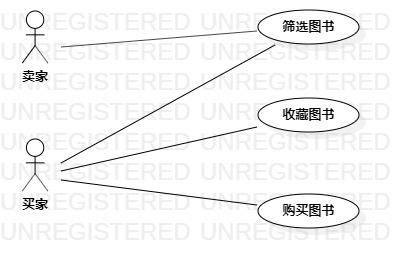
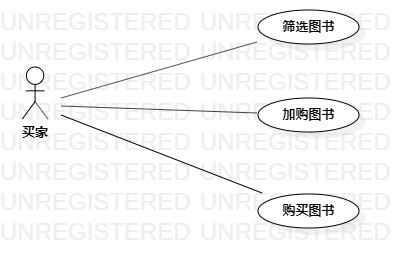
#2 #437 提交第二次实验

diff --git a/students/1714080902431/lab2.md b/students/1714080902431/lab2.md
@@ -2,28 +2,39 @@
 
 ## 一、实验目标
 
-1. 理解UML用例建模的概念
-2. 创建并完善选题
+1. 确定选题
+2. 学会用StarUML编写用例图
+3. 学习编写用例规约
 
 ## 二、实验内容
 
-1. 提交并完善选题
+1. 确定选题
 2. 描述选题功能
 3. 画出对应的用例图
+4. 编写用例规约
 
 ## 三、实验步骤
 
-1. 确定选题：图书商城系统
+1. 确定选题：#437 图书商城系统
 
 2. 描述选题的功能：
 
   （1）筛选图书：买家进入图书商城的主页面时，可通过关键字筛选出自己想要的图书
   
-  （2）收藏图书：买家通过筛选功能筛选出自己满意的图书后，可将其收藏，加入购物车
+  （2）加购图书：买家通过筛选功能筛选出自己满意的图书后，可将其加入购物车
   
-  （3）购买图书：买家可在筛选出图书后直接购买，也可通过购物车收藏后购买
+  （3）购买图书：买家可在购物车点击购买
+  
+3. 确定参与者（Actor）：买家
+
+4. 确定用例（User Case）
+  （1）筛选图书
+  （2）加购图书
+  （3）购买图书
     
-3. 画出对应的用例图
+5. 画出对应的用例图
+
+6. 编写用例规约
 
 ## 四、实验结果
 
@@ -31,3 +42,50 @@
 
 ![用例图](./lab2_UseCaseDiagram.jpg)  
 图1. 图书商城系统的用例图
+
+
+### 表1：筛选图书  
+
+用例编号  | UC01 | 备注  
+-|:-|-  
+用例名称  | 筛选图书  |   
+前置条件  |      | *可选*   
+后置条件  |      | *可选*   
+基本流程  | 1.买家进入系统首页；  |*用例执行成功的步骤*    
+~| 2.买家点击搜索框并输入书籍名称；  |     
+~| 3.买家点击搜索按钮；   |   
+~| 4.系统根据书籍名称查询书籍信息；   |  
+~| 5.系统返回书籍基本信息；   |  
+~| 6.系统在买家界面显示书籍基本信息；   |
+扩展流程  | 4.1系统检查书籍名称，若书籍名称为空，提示“搜索信息为空，请重新输入！”；   |*用例执行失败*    
+~| 4.2系统查询书籍信息，若搜索不到信息，提示“本商城没有此书”；   | 
+
+
+### 表2：收藏图书  
+
+用例编号  | UC02 | 备注  
+-|:-|-  
+用例名称  | 收藏图书  |   
+前置条件  |   买家已登录且进入书籍详情界面   | *可选*   
+后置条件  |      | *可选*   
+基本流程  | 1.买家点击“加入购物车”按钮；  |*用例执行成功的步骤*    
+~| 2.系统获取书籍详情；  |     
+~| 3.系统添加一条加购记录；   |   
+~| 4.系统提示“成功加入购物车”；   |  
+扩展流程  | 3.1 系统添加一条加购记录，添加失败，提示“加入购物车失败”；   |*用例执行失败*  
+
+### 表3：购买图书  
+
+用例编号  | UC03 | 备注  
+-|:-|-  
+用例名称  | 购买图书  |   
+前置条件  |   买家已登录且进入购物车界面   | *可选*   
+后置条件  |      | *可选*   
+基本流程  | 1.买家点击对应书籍的“购买”按钮；  |*用例执行成功的步骤*    
+~| 2.系统跳转到购买页面；  |     
+~| 3.买家点击“支付”按钮；   |   
+~| 4.系统查询买家账户余额，减去购买费并更新账户余额；   |  
+~| 5.系统显示购买成功页面；   |  
+扩展流程  | 4.1系统查询买家余额，若余额小于购买费，提示“您的账户余额不足”；   |*用例执行失败*    
+
+
